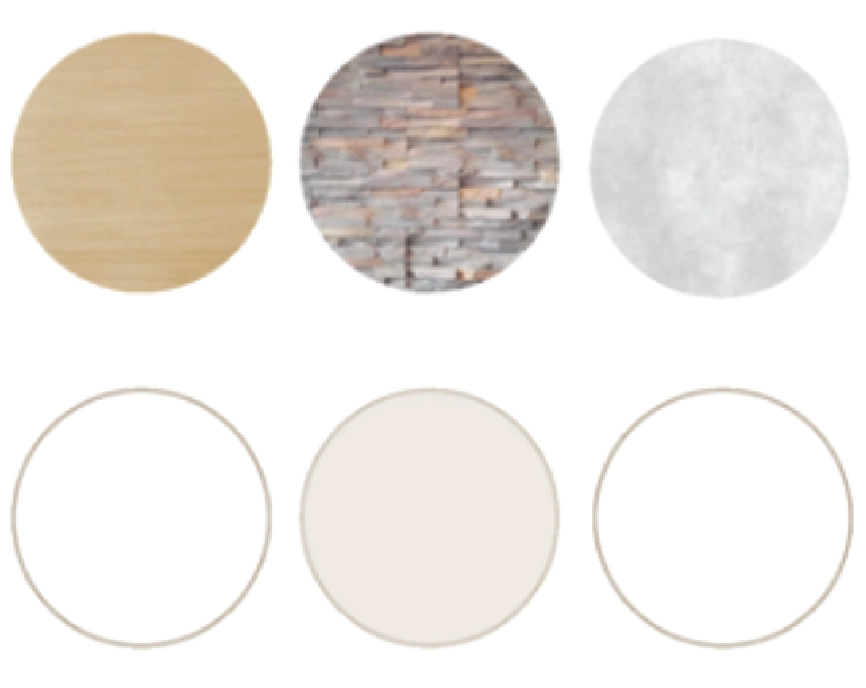
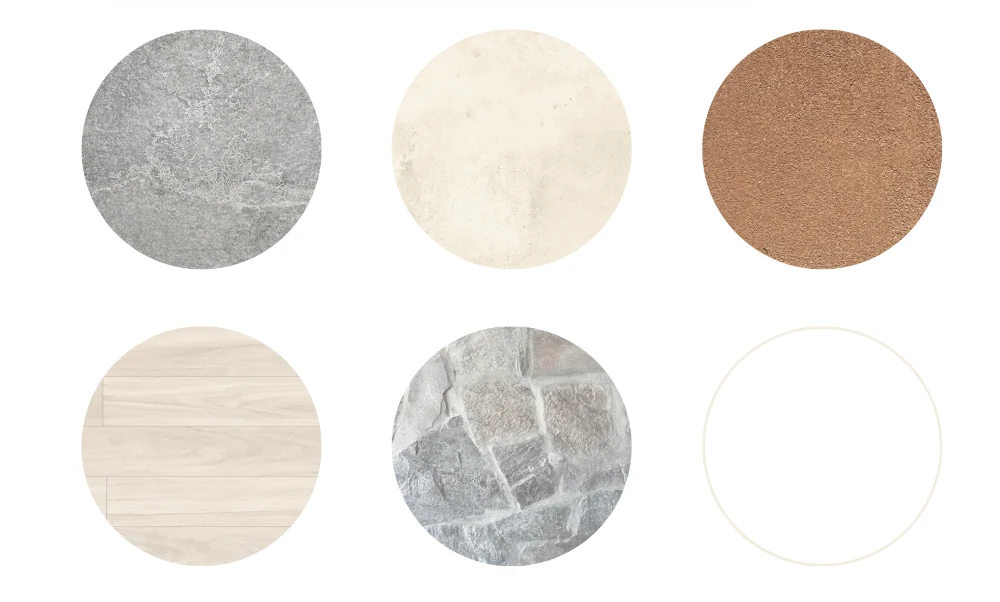
galeria

diff --git a/app/components/FullscreenGallery.tsx b/app/components/FullscreenGallery.tsx
@@ -1,69 +1,145 @@
 "use client";
 
-import { useLayoutEffect, useRef } from "react";
-import gsap from "gsap";
-import { ScrollTrigger } from "gsap/ScrollTrigger";
+import { useState, useEffect, useCallback } from "react";
 import Image from "next/image";
+import { X, ChevronLeft, ChevronRight } from "lucide-react";
 
-gsap.registerPlugin(ScrollTrigger);
+const images = [
+    "/galeria/frente.webp",
+    "/galeria/exterior2.webp",
+    "/galeria/exterior3.jpeg",
+    "/galeria/galeria.webp",
+    "/galeria/living-comedor.webp",
+    "/galeria/living.jpeg",
+    "/galeria/comedor.webp",
+    "/galeria/comedor2.jpeg",
+    "/galeria/cocina.webp",
+    "/galeria/habitacion.jpeg",
+    "/galeria/habitacion2.jpeg",
+];
 
 export default function FullscreenGallery() {
-    const containerRef = useRef<HTMLDivElement>(null);
-    const wrapperRef = useRef<HTMLDivElement>(null);
-    const image1Ref = useRef<HTMLDivElement>(null);
-    const image2Ref = useRef<HTMLDivElement>(null);
+    const [selectedIndex, setSelectedIndex] = useState<number | null>(null);
 
-    useLayoutEffect(() => {
-        const ctx = gsap.context(() => {
-            const tl = gsap.timeline({
-                scrollTrigger: {
-                    trigger: containerRef.current,
-                    start: "top top",
-                    end: "+=150%", // Adjust scroll distance for animation speed
-                    scrub: true,
-                    pin: true,
-                    anticipatePin: 1,
-                },
-            });
+    const closeModal = useCallback(() => setSelectedIndex(null), []);
 
-            // Initial state: Image 2 is off-screen to the right
-            gsap.set(image2Ref.current, { xPercent: 100 });
-
-            // Animate: Image 2 slides in from right (to 0), Image 1 slides out to left (to -100)
-            tl.to(image2Ref.current, { xPercent: 0, ease: "none" })
-                .to(image1Ref.current, { xPercent: -100, ease: "none" }, "<"); // "<" syncs start time
-
-        }, containerRef);
-
-        return () => ctx.revert();
+    const showNext = useCallback(() => {
+        setSelectedIndex((prev) => (prev === null ? null : (prev + 1) % images.length));
     }, []);
 
+    const showPrev = useCallback(() => {
+        setSelectedIndex((prev) => (prev === null ? null : (prev - 1 + images.length) % images.length));
+    }, []);
+
+    // Handle Keyboard Navigation & Escape
+    useEffect(() => {
+        if (selectedIndex === null) return;
+
+        const handleKeyDown = (e: KeyboardEvent) => {
+            if (e.key === "Escape") closeModal();
+            if (e.key === "ArrowRight") showNext();
+            if (e.key === "ArrowLeft") showPrev();
+        };
+
+        window.addEventListener("keydown", handleKeyDown);
+        return () => window.removeEventListener("keydown", handleKeyDown);
+    }, [selectedIndex, closeModal, showNext, showPrev]);
+
+    // Handle Scroll Lock
+    useEffect(() => {
+        if (selectedIndex !== null) {
+            document.body.style.overflow = "hidden";
+        } else {
+            document.body.style.overflow = "";
+        }
+        return () => {
+            document.body.style.overflow = "";
+        };
+    }, [selectedIndex]);
+
+    // Handle Wheel Scroll Navigation
+    const handleWheel = (e: React.WheelEvent) => {
+        // Debounce handling could be good but for simple scroll nav:
+        // Prevent default not needed as we are in fixed overlay, actually wait, 
+        // fixed overlay stops scroll propagation to body usually if it captures events.
+        // But we want to trigger change.
+        if (e.deltaY > 0) {
+            showNext();
+        } else if (e.deltaY < 0) {
+            showPrev();
+        }
+    };
+
     return (
-        <section ref={containerRef} className="relative w-full h-screen overflow-hidden">
-            <div ref={wrapperRef} className="relative w-full h-full">
-
-                {/* Image 1 */}
-                <div ref={image1Ref} className="absolute inset-0 w-full h-full z-10">
-                    <Image
-                        src="/foto1.webp"
-                        alt="Gallery Image 1"
-                        fill
-                        className="object-cover p-5 bg-white"
-                        priority
-                    />
+        <section className="w-full py-16 bg-background">
+            <div className="container mx-auto px-4">
+                <div className="grid grid-cols-1 md:grid-cols-3 gap-4">
+                    {images.map((src, index) => (
+                        <div
+                            key={index}
+                            className="relative aspect-square cursor-pointer overflow-hidden rounded-lg group"
+                            onClick={() => setSelectedIndex(index)}
+                        >
+                            <Image
+                                src={src}
+                                alt={`Gallery Image ${index + 1}`}
+                                fill
+                                className="object-cover transition-transform duration-300 group-hover:scale-110"
+                                sizes="(max-width: 768px) 100vw, (max-width: 1200px) 33vw, 33vw"
+                            />
+                            <div className="absolute inset-0 bg-black/0 group-hover:bg-black/20 transition-colors duration-300" />
+                        </div>
+                    ))}
                 </div>
-
-                {/* Image 2 */}
-                <div ref={image2Ref} className="absolute inset-0 w-full h-full z-20">
-                    <Image
-                        src="/foto2.webp" // Assuming second image is foto2.webp as per common assets, verify if needed or use placeholder logic from confirm
-                        alt="Gallery Image 2"
-                        fill
-                        className="object-cover p-5 bg-white"
-                    />
-                </div>
-
             </div>
+
+            {/* Lightbox */}
+            {selectedIndex !== null && (
+                <div
+                    className="fixed inset-0 z-50 flex items-center justify-center bg-black/95 p-4"
+                    onClick={closeModal}
+                    onWheel={handleWheel}
+                >
+                    {/* Close Button */}
+                    <button
+                        className="absolute top-4 right-4 text-white hover:text-gray-300 transition-colors p-2 z-60"
+                        onClick={(e) => { e.stopPropagation(); closeModal(); }}
+                    >
+                        <X size={32} />
+                    </button>
+
+                    {/* Prev Button */}
+                    <button
+                        className="absolute left-4 top-1/2 -translate-y-1/2 text-white hover:text-gray-300 transition-colors p-2 z-60 hidden md:block"
+                        onClick={(e) => { e.stopPropagation(); showPrev(); }}
+                    >
+                        <ChevronLeft size={48} />
+                    </button>
+
+                    {/* Next Button */}
+                    <button
+                        className="absolute right-4 top-1/2 -translate-y-1/2 text-white hover:text-gray-300 transition-colors p-2 z-60 hidden md:block"
+                        onClick={(e) => { e.stopPropagation(); showNext(); }}
+                    >
+                        <ChevronRight size={48} />
+                    </button>
+
+                    {/* Image Container */}
+                    <div
+                        className="relative w-full max-w-5xl h-[80vh] flex items-center justify-center touch-manipulation"
+                        onClick={(e) => e.stopPropagation()}
+                    >
+                        <Image
+                            src={images[selectedIndex]}
+                            alt="Fullscreen Gallery Image"
+                            fill
+                            className="object-contain select-none"
+                            quality={100}
+                            priority
+                        />
+                    </div>
+                </div>
+            )}
         </section>
     );
 }

diff --git a/app/components/BenefitsSection.tsx b/app/components/BenefitsSection.tsx
@@ -29,7 +29,7 @@ export default function BenefitsSection() {
             const tl = gsap.timeline({
                 scrollTrigger: {
                     trigger: containerRef.current,
-                    start: "top 80%", // Start early enough to see it come in
+                    start: "top 160%", // Start early enough to see it come in
                     end: "bottom top",
                     toggleActions: "play none none reverse",
                 },
@@ -86,7 +86,7 @@ export default function BenefitsSection() {
     return (
         <section ref={containerRef} className="w-full">
             {/* Top Part: Benefits with Blue Wipe Background */}
-            <div className="relative py-20 lg:py-32 overflow-hidden">
+            <div className="relative py-20 lg:py-32 mt-50 mb-30 overflow-hidden">
                 {/* Background Wipe Layer */}
                 <div ref={bgRef} className="absolute inset-0 bg-[#d0e4e6] z-0" />
 
@@ -94,7 +94,7 @@ export default function BenefitsSection() {
                     <div className="flex flex-col lg:flex-row items-center justify-center lg:justify-between gap-12 lg:gap-8">
 
                         {/* Title Section */}
-                        <div className="w-full lg:w-1/4 flex justify-center lg:justify-start">
+                        <div className="w-full lg:w-1/4 flex justify-center lg:justify-start pl-0 md:pl-12">
                             <h2 ref={titleRef} className="text-4xl md:text-5xl lg:text-6xl font-bold text-[#8baeb3] uppercase leading-tight text-center lg:text-left invisible">
                                 Bene<br className="hidden lg:block" />ficios
                             </h2>

diff --git a/app/components/header.tsx b/app/components/header.tsx
@@ -1,4 +1,5 @@
 import Link from 'next/link';
+import Image from 'next/image';
 import { Button } from '@/components/ui/button';
 import {
   Sheet,
@@ -25,9 +26,15 @@ export default function Header() {
       <div className="container flex h-14 max-w-screen-2xl items-center justify-between">
         <div className="flex items-center">
           <Link href="/" className="mr-6 flex items-center space-x-2">
-            <span className="font-bold sm:inline-block">
-              Kimün
-            </span>
+            <div className="relative h-8 w-24">
+              <Image
+                src="/logo.svg"
+                alt="Kimün"
+                fill
+                className="object-contain object-left"
+                priority
+              />
+            </div>
           </Link>
         </div>
 

diff --git a/app/components/BioclimaticSection.tsx b/app/components/BioclimaticSection.tsx
@@ -44,7 +44,7 @@ export default function BioclimaticSection() {
                 scrollTrigger: {
                     trigger: containerRef.current,
                     start: "top top",
-                    end: "+=400%", // Increased scroll length for more comfortable reading
+                    end: "+=200%", // Increased scroll length for more comfortable reading
                     pin: true,
                     scrub: 1,
                 },
